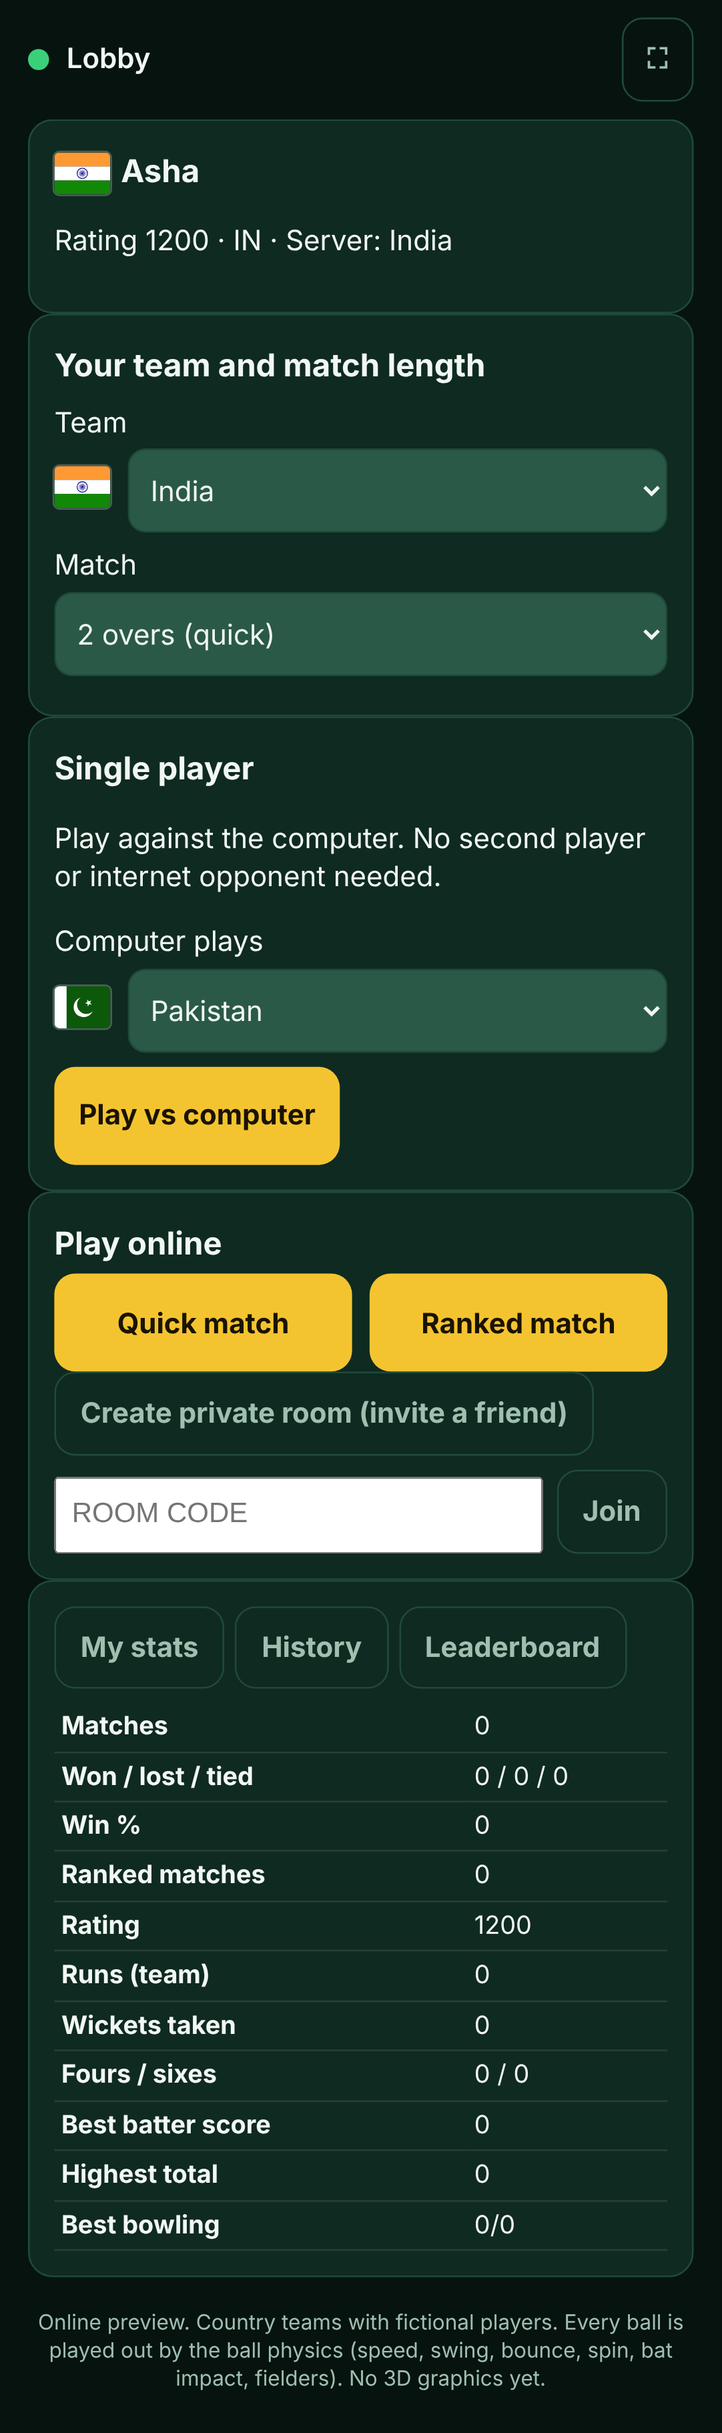
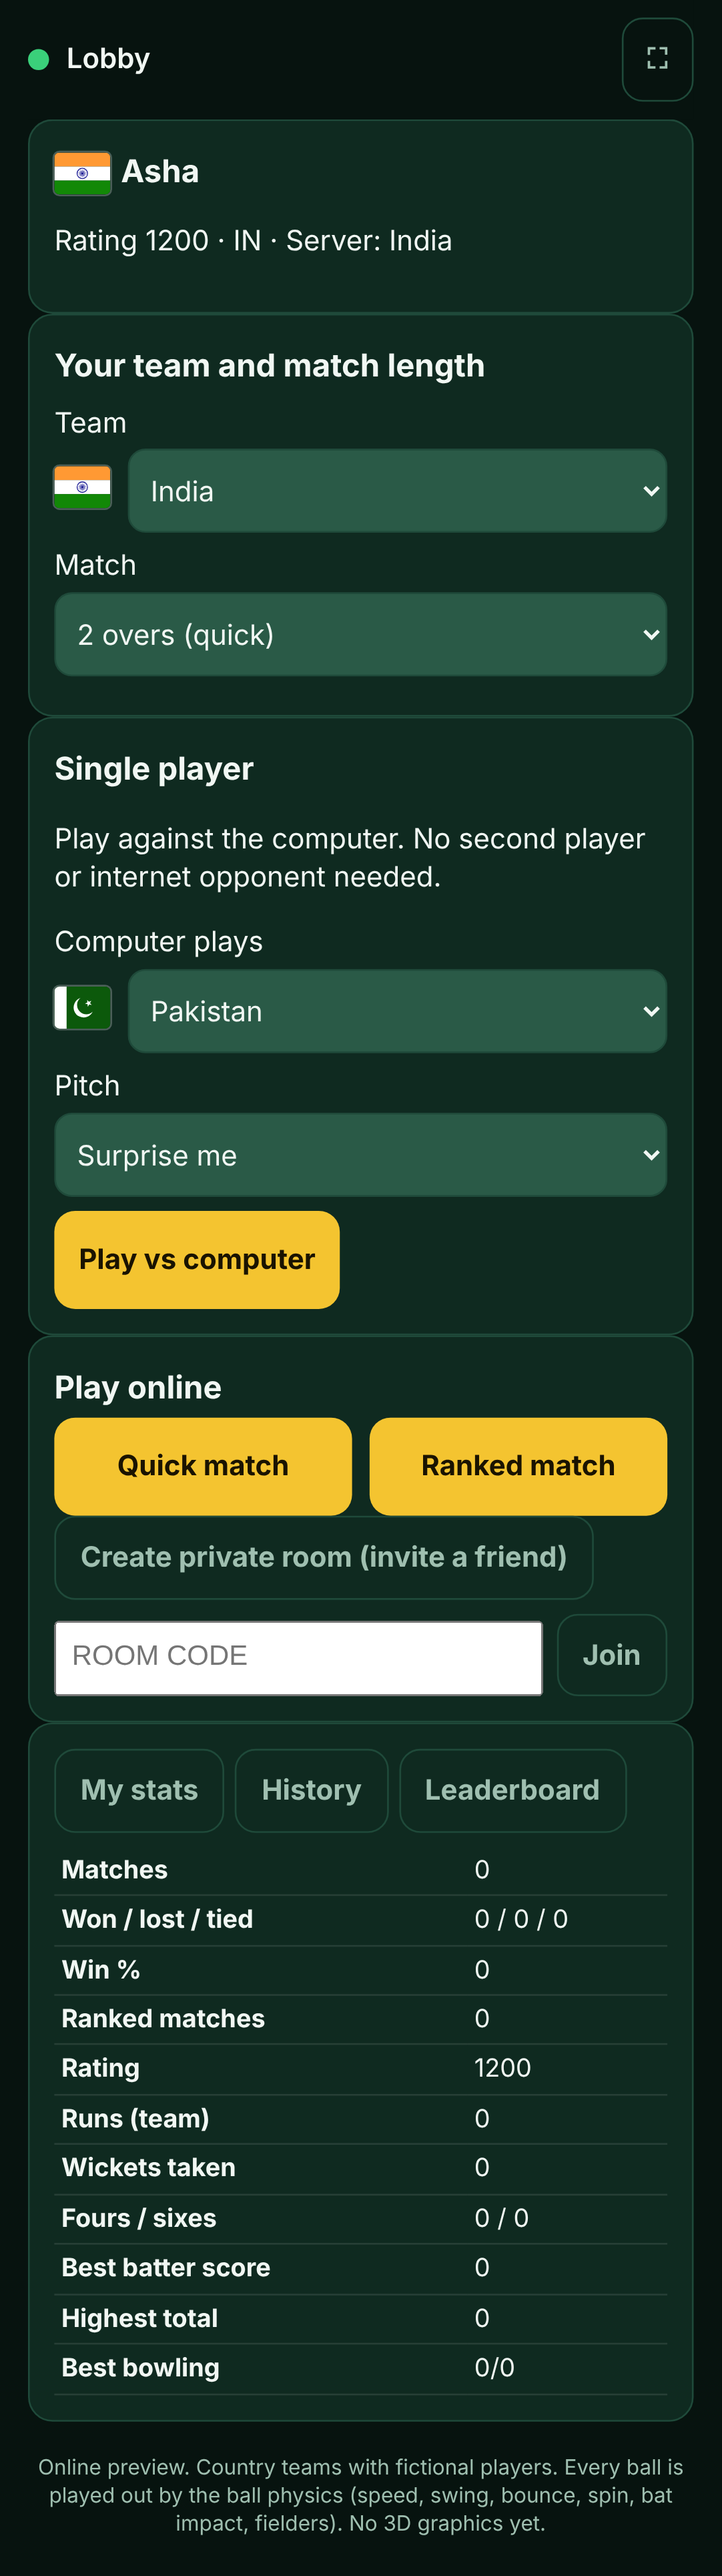
Docs: gameplay physics, calibration results, controller status, DRS evidence, known issues, changelog 0.12.0
Claude-Session: https://claude.ai/code/session_014Ucx4Lah3CRKQTbjtPM8Nc

diff --git a/docs/BALL_PHYSICS.md b/docs/BALL_PHYSICS.md
@@ -24,6 +24,22 @@ scored ball). Tests: `core/tests/PhysicsTests.cpp`,
 | Fielders | 9 from the field setting + wicketkeeper + bowler; reaction time, running speed and dive reach by skill; **catches** (harder when fast, diving or arriving late) and **drops**; **ground stops** (hard-hit balls can beat a diving fielder); **runs** from batter running time vs pick-up + throw |
 | Umpiring | wides (limited overs guideline 0.89 m, down the leg side, over head height), waist-high full toss = no-ball, LBW evidence (pitched, impact, wickets, shot offered), caught-behind edges (a very faint edge may be missed on the field and go to DRS) |
 
+## 1b. Gameplay built on the physics (2026-11-21)
+
+| Feature | How it works |
+|---|---|
+| Running, run outs | the batters judge each run from where the ball is gathered (allowing for a direct hit), with a misjudgement that shrinks with skill; the fielders throw to the end that gives the best chance; a close one is a shy at the stumps (hit chance by skill and distance). Run out = the throw (or direct hit) beats the batter; it goes to the TV umpire with the time margin as evidence |
+| Overthrows | a missed shy with nobody backing up runs on; the ball is followed again and the fielders chase (can be 4 overthrows) |
+| Byes / leg byes | byes when the keeper can't take the ball cleanly; leg byes when the ball comes off the pad or thigh AND a shot was offered (Law 23) - it glances away behind square |
+| Stumpings | a batter who stepped out (or stretched far forward) and missed, keeper standing up to spin, keeper's gather + break vs the batter getting back; TV umpire with the margin |
+| Front-foot no-balls | where the front foot lands depends on effort and skill; clear ones are called, marginal ones only show up on the TV check when a wicket falls |
+| Boundary catches | catches within 3 m of the rope, relay catches over the rope, fielders carried over the rope (six), leaps for balls just over; boundary saves |
+| Bump balls | a ball hit down into the ground from below waist height can't be caught before it bounces |
+| Wind | drag, swing and lift use the ball's speed through the air (cross / head / tail winds) |
+| Dew | second innings of day-night limited-overs games: less grip off the pitch, less swing |
+| Pitch wear | grows with overs bowled (a lot over five Test days): more grip and turn, less seam, lower and more variable bounce from cracks (a deterministic pattern per pitch), rough in the bowlers' footmarks |
+| Phone fielding | the fielding side can time a catch / dive and choose the throw end; this nudges the physics (better or worse) |
+
 ## 2. Typical numbers it produces
 
 | Delivery | Result |
@@ -38,19 +54,26 @@ scored ball). Tests: `core/tests/PhysicsTests.cpp`,
 
 ## 3. Calibration (whole matches)
 
-Computer v computer T20s, both sides played through the physics:
+`cricket_calibration` plays complete computer-v-computer matches (60 T20s,
+16 ODIs, 6 Tests, 30 T20s on each pitch, 30 strong-v-weak) and checks each
+value against a sanity band (it runs in `ctest` for Release builds).
+Latest run:
 
-| | This model (40 matches) | Real T20 internationals (typical) |
+| | This model | Real internationals (approx.) |
 |---|---|---|
-| Runs per innings | ~135 | ~150-165 |
-| Wickets per innings | ~5.5 | ~6-7 |
-| Dot balls | ~49% | ~38-42% |
-| Fours / sixes per innings | ~15 / ~3 | ~13 / ~6 |
-| Dismissals | caught 71%, bowled 16%, LBW 12% | caught ~65%, bowled ~15%, LBW ~10%, run out ~7% |
+| T20 runs / wickets per innings | 162 / 5.0 | ~150-165 / ~6-7 |
+| T20 dot balls, 4s, 6s per innings | 34%, 13.2, 5.8 | ~38-42%, ~13, ~6-7 |
+| T20 dismissals | caught 54%, bowled 23%, lbw 18%, run out 5% | caught ~60-65%, bowled ~15%, lbw ~10%, run out ~7% |
+| ODI runs / wickets per innings | 271 / 6.1 | ~250-280 / ~7 |
+| Test run rate, runs per wicket | 3.77, ~33 | ~3.2-3.4, ~30-33 |
+| Pitch effect (T20 runs per innings) | flat 184, standard 177, dusty 157, bouncy 158, green 147 | flat roads score most; green tops favour seamers |
+| Spinners' share of wickets | dusty 45%, green 29% | turners favour spin |
+| Strong v weak side (70% ratings) | strong side won 30 of 30 | mismatches are one-sided |
 
-The real values are approximate public averages, used only as a sanity
-band. The automated test requires 100-220 runs, 2-10 wickets and 30-65% dot
-balls per innings.
+Bands checked: T20 135-200 runs and 4-8.5 wickets, ODI 200-330 runs and
+5-9.5 wickets, Test run rate 2.5-4.2 and 18-45 runs per wicket, flat > green
+pitch, more spin wickets on dusty than green, strong side wins >= 60%, zero
+scorecard inconsistencies.
 
 ## 4. Determinism (same inputs → same result)
 

diff --git a/README.md b/README.md
@@ -59,7 +59,8 @@ cmake --build build -j
 | Multiplayer core | server-authoritative session: join sides, rejects duplicate and out-of-turn commands, review timer, break pauses, weather and penalty actions, ordered event log so a reconnecting client can catch up, crash recovery from the session journal |
 | Teams | 10 international sides with real country names and flags (India, Pakistan, ...); **players are fictional**; no board logos or kits |
 | **Phone controller** | QR pairing over home Wi-Fi, secret never sent over the network, signed + numbered messages, captain / player / spectator controls (toss, captaincy, review, bowling, batting, fielding), automatic reconnection with the game waiting for you, TV page with QR codes. Ball outcomes are **simulated placeholders** until Unreal physics. See [docs/MOBILE_CONTROLLER.md](docs/MOBILE_CONTROLLER.md) and [docs/CONNECT_YOUR_PHONE.md](docs/CONNECT_YOUR_PHONE.md) |
-| **Ball physics** | deterministic flight, drag, conventional + reverse swing, seam movement, spin turn and drift, bounce on 5 pitch types, bat impact with timing, edges, LBW ball tracking, fielders who catch, drop, stop and throw, runs from running time. Used for every ball offline, on the phone and online (server). See [docs/BALL_PHYSICS.md](docs/BALL_PHYSICS.md) |
+| **Ball physics + gameplay** | deterministic flight, drag, wind, conventional + reverse swing, seam, spin, bounce on 5 pitch types with wear, cracks and footmarks over a Test, dew in day-night games, bat impact with timing, edges, step-out, LBW ball tracking; fielders who catch (incl. boundary catches), drop, stop and throw; running with run-outs, overthrows, byes, leg byes; stumpings; front-foot no-balls. Every DRS / TV-umpire decision uses physics evidence. Used for every ball offline, on the phone, online and in `cricket_sim`. Simplified and calibrated, not a research model. See [docs/BALL_PHYSICS.md](docs/BALL_PHYSICS.md) |
+| **Scorecards** | batting (R, B, 4s, 6s, SR, how out), bowling (O, M, R, W, Econ, wides, no-balls), extras, fall of wickets, partnerships; cross-checked on every test match; shown on the phone / browser and in `cricket_sim` |
 | **Single player vs computer** | in the same browser app: pick your country (e.g. India), the computer captain plays the other team (toss, batting order, bowling changes, fields, its batting and bowling); you control your batting and bowling. Uses the same rules engine and scorer. Practice only: not in ratings, stats or leaderboards. Ball outcomes are **simulated placeholders**. See [docs/SINGLE_PLAYER.md](docs/SINGLE_PLAYER.md) |
 | **Online multiplayer** (preview) | self-hosted `cricket_server` (₹0): guest players (no password), private rooms with 6-letter codes, quick + ranked matchmaking, Elo ratings, server-decided scores, reconnection (match waits 2 min, then ranked forfeit / casual AI takeover), anti-cheat timing check, duplicate-message protection, crash recovery, history, stats, leaderboards. ⚠ Tested on one machine only - **the two-device internet test is still pending**. See [docs/ONLINE_MULTIPLAYER.md](docs/ONLINE_MULTIPLAYER.md) and [docs/ONLINE_SERVER_SETUP.md](docs/ONLINE_SERVER_SETUP.md) |
 

diff --git a/docs/MOBILE_CONTROLLER.md b/docs/MOBILE_CONTROLLER.md
@@ -82,7 +82,7 @@ anything else with a reason.
 | Who | Controls |
 |---|---|
 | **Captain** (one team) | toss call / decision, openers, next batter, bowler, field preset, review / accept (with countdown), declare, follow-on, new ball, ready after a break, plus everything a player can do |
-| **Player** (one team) | bowl (delivery type, tap-the-pitch line and length, effort), bat (shot, direction pad, timing tap), fielding reactions (dive left/right, catch, throw to keeper/bowler), ready after a break |
+| **Player** (one team) | bowl (delivery type, tap-the-pitch line and length, effort), bat (shot, direction pad, timing tap, **step out** down the pitch), **fielding** when the ball goes to one of your fielders ("Catch it!" / "Stop it!" with a timing tap, throw to the keeper's or bowler's end), ready after a break |
 | **Spectator** | watches the live score, no controls |
 
 **Each ball:** the fielding side chooses the delivery (20 s, then a stock ball
@@ -96,6 +96,25 @@ leave can't be caught, defending gives no boundaries, good timing gives more
 boundaries, and bad timing gives more catches. The phone and TV say so.
 Unreal ball physics will replace this; the controls and protocol stay the
 same.
+
+## Status report (2026-11-21)
+
+| Requirement (Priority 2) | Status | Tested by |
+|---|---|---|
+| QR-based pairing | done | C++ hub tests, Node protocol tests, Android-emulated browser test (QR scanned from the TV page) |
+| Secure local Wi-Fi link | done: secret only in the QR, mutual proof, signed + numbered messages (authenticated, not encrypted) | hub tests incl. replay / forgery / wrong-secret cases |
+| Batting controls | done: shot, direction, timing tap; **new: step out** | browser tests, `ctl_host_*` tests |
+| Bowling controls | done: delivery type, line/length by tapping the pitch, effort | browser tests |
+| Captaincy controls | done: toss, openers, batter, bowler, field preset, review/accept, declare, follow-on, new ball, ready | `ctl_host_role_based_controls` |
+| **Fielding controls** | **completed now.** Before this milestone the phone's fielding buttons were sent but had no effect on the ball (a gap). Now the fielding side gets a prompt when the ball goes to a fielder; a well-timed CATCH / DIVE makes the catch or stop easier, a badly-timed one harder; THROW chooses the end for a run out | `ctl_host_fielding_prompt_step_out_scorecard_and_conditions`, single-player browser test |
+| Reconnection | done: automatic, the game waits for a missing phone | hub, host and browser tests |
+| Android browser support | done, **tested on emulated Pixel 7 only**, not on a physical phone | Playwright |
+| Connection instructions | done: CONNECT_YOUR_PHONE.md, on-screen help | - |
+| **Scorecard on the phone** | **new**: full card (batting R/B/4s/6s/SR, bowling O/M/R/W/Econ, extras, fall of wickets, partnerships) | browser test checks the numbers add up |
+| **Match conditions on the phone** | **new**: pitch type and wear, wind, dew | host test |
+
+Still missing: running between the wickets is decided by the computer (the
+batters judge each run); no physical-phone test yet.
 
 ## Reconnection
 

diff --git a/KNOWN_ISSUES.md b/KNOWN_ISSUES.md
@@ -115,11 +115,20 @@ this milestone have been removed (see CHANGELOG.md).
     measurements where they exist and were tuned so whole matches look like
     T20 cricket. Computer v computer T20 averages: ~135 runs, ~5.5 wickets
     per innings (real T20Is: ~150-165 runs, ~6-7 wickets).
-37. Not modelled yet: run-outs, stumpings, hit wicket, overthrows, front-foot
-    no-balls, leg byes off the pad, catches at the boundary rope, wind,
-    humidity, dew, pitch wear changing during a match, ball getting softer.
-38. The batter's body is simple (bat zone + pads); there is no 3D body
-    collision (comes with Unreal animation).
+37. Now modelled (2026-11-21): run-outs, stumpings, overthrows, byes, leg
+    byes, front-foot no-balls, boundary catches and saves, wind, dew, pitch
+    wear and footmarks. Still not modelled: hit wicket, obstructing the
+    field, humidity, the ball getting softer, rain making the outfield slow,
+    mankading, the batter choosing NOT to run on a misfield.
+38. The batter's body is simple (bat zone + pads/thigh box); there is no 3D
+    body collision (comes with Unreal animation). Running between the wickets
+    is decided by the computer for both sides (humans don't call runs).
+40. Calibration (computer v computer, see BALL_PHYSICS.md): stumpings
+    (<1% of wickets) and run-outs (~5%) are a little rare; Test run rate is
+    a little high (~3.8); ODI extras a little high (~12 an innings).
+41. Pitch and weather effects use simple rules (wear = overs bowled;
+    footmark zones fixed outside the stumps; dew only in the second innings
+    of day-night limited-overs games). They are plausible, not measured.
 39. Computer players' decisions and execution vary with a seeded generator
     (same seed = same match). Human inputs decide human players' balls.
 

diff --git a/CHANGELOG.md b/CHANGELOG.md
@@ -1,5 +1,28 @@
 # Changelog
 
+## [0.12.0] - 2026-11-21 - Complete gameplay physics, scorecards, controller fielding
+
+### Added
+- Running between the wickets with run-outs (TV umpire, physics margin),
+  direct hits, overthrows; byes; leg byes (Law 23); stumpings; front-foot
+  no-balls (TV check on wickets); boundary catches / relay catches / stepping
+  on the rope / boundary saves; bump balls; wind; dew; pitch wear, cracks and
+  footmarks (deterministic per pitch).
+- Scorecard module (`Scorecard.h`): SR, economy, fall of wickets,
+  partnerships, `CheckScorecard` cross-checks.
+- Phone / browser: fielding prompt (catch / dive timing, throw end), step out,
+  scorecard view, match conditions. Online matches get a venue (pitch, wind,
+  day-night), kept across server restarts; single player lets you pick the pitch.
+- `cricket_calibration` (realism bands; in ctest for Release builds).
+- `cricket_sim` now plays every ball with the physics and prints the full card.
+- Tests: gameplay tests (11), controller fielding test; 273 C++ tests total.
+
+### Changed / fixed
+- Fielding buttons on the phone previously had no effect: now they do.
+- Fielders accelerate from standing; defensive blocks are less error-prone
+  than full swings; wrong-shot-for-the-length risk; formats recalibrated.
+- Perception noise uses a platform-independent generator.
+
 ## [0.11.0] - 2026-11-21 - Real cricket ball physics
 
 ### Added

diff --git a/docs/DRS_DESIGN.md b/docs/DRS_DESIGN.md
@@ -21,8 +21,13 @@ Tests: `core/tests/DrsTests.cpp`, `DrsConfigTests.cpp`, `NoBallTests.cpp`.
 >   (in-game ball tracking), and whether the bat touched it. It is still not
 >   a real-world DRS product, and screens will not use real DRS brand names
 >   unless licensed (see ASSET_REGISTER.md).
-> - `QuickSim::MakeCase` (in `AutoCaptain.cpp`), which rolls dice, is now
->   used only by the text simulator `cricket_sim`.
+> - **Update (gameplay milestone):** every DRS / TV-umpire case now comes
+>   from the physics, including run outs and stumpings (how far short the
+>   batter was, in time), low catches (how high above the grass), boundary
+>   catches, "six or four?" checks (how high the ball was at the rope), front
+>   -foot no-balls (where the front foot landed) and close wides. The text
+>   simulator `cricket_sim` now uses the physics too; `QuickSim::MakeCase`
+>   (dice) is no longer used by any game mode (kept only in old unit tests).
 >
 > So the DRS **rules** are tested and reliable. The DRS **evidence** is a
 > stand-in until the physics exists.

diff --git a/docs/TEST_REPORT.md b/docs/TEST_REPORT.md
@@ -114,3 +114,13 @@ audio.
 | Node `controller_js` / `online_js` | 6/6, 3/3 |
 | Browser: phone controller / two-phone online / single player | all pass (single player 6/6 repeated runs) |
 
+## Gameplay milestone (2026-11-21)
+
+| Suite | Result |
+|---|---|
+| C++ `cricket_tests` (Debug + sanitizers, Release GCC, Release Clang) | 273/273, 0 warnings |
+| `cricket_calibration` (60 T20 + 16 ODI + 6 Test + 150 pitch + 30 skill matches) | all values inside their bands, 0 scorecard inconsistencies |
+| Scorecard cross-checks over 20 T20 + 10 ODI + 4 Test session matches | 0 problems |
+| Node `controller_js` / `online_js` | 6/6, 3/3 |
+| Browser: phone controller / two-phone online / single player (incl. fielding prompt, step out, scorecard) | all pass |
+
